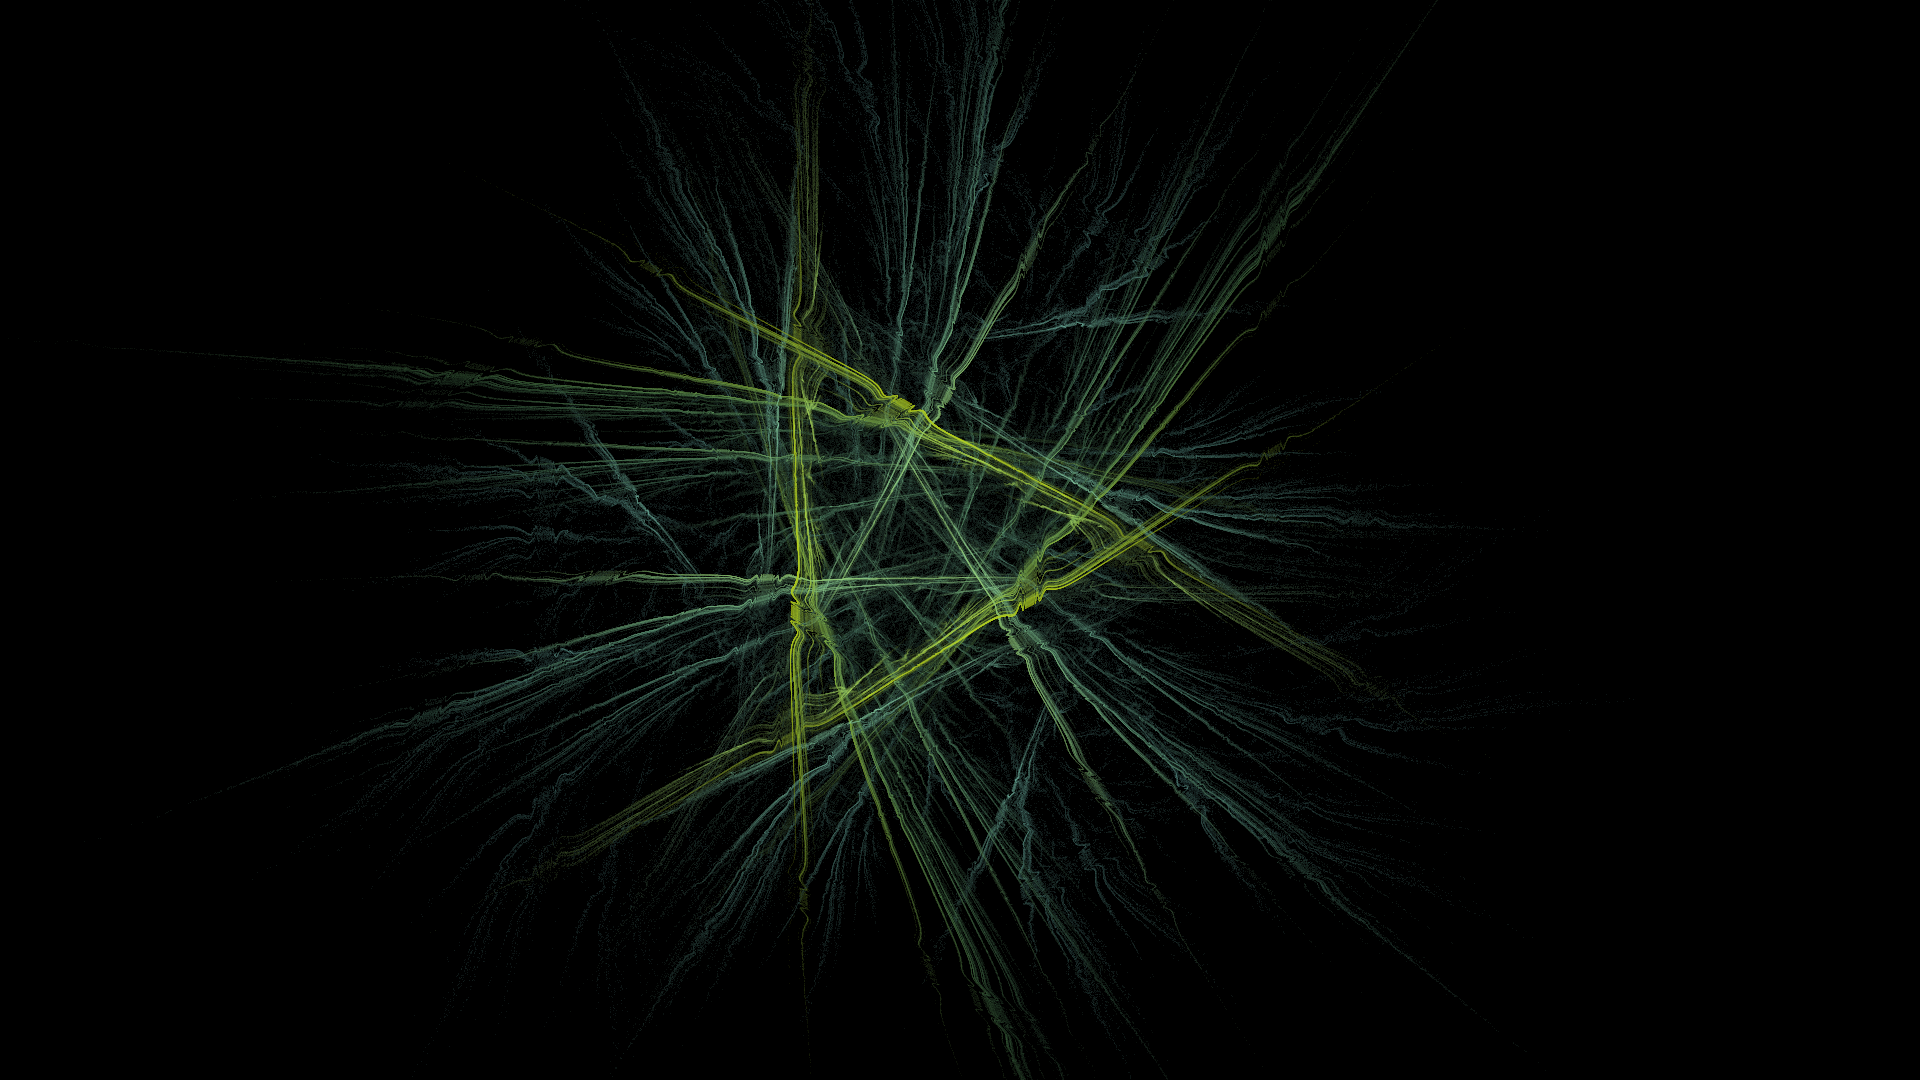
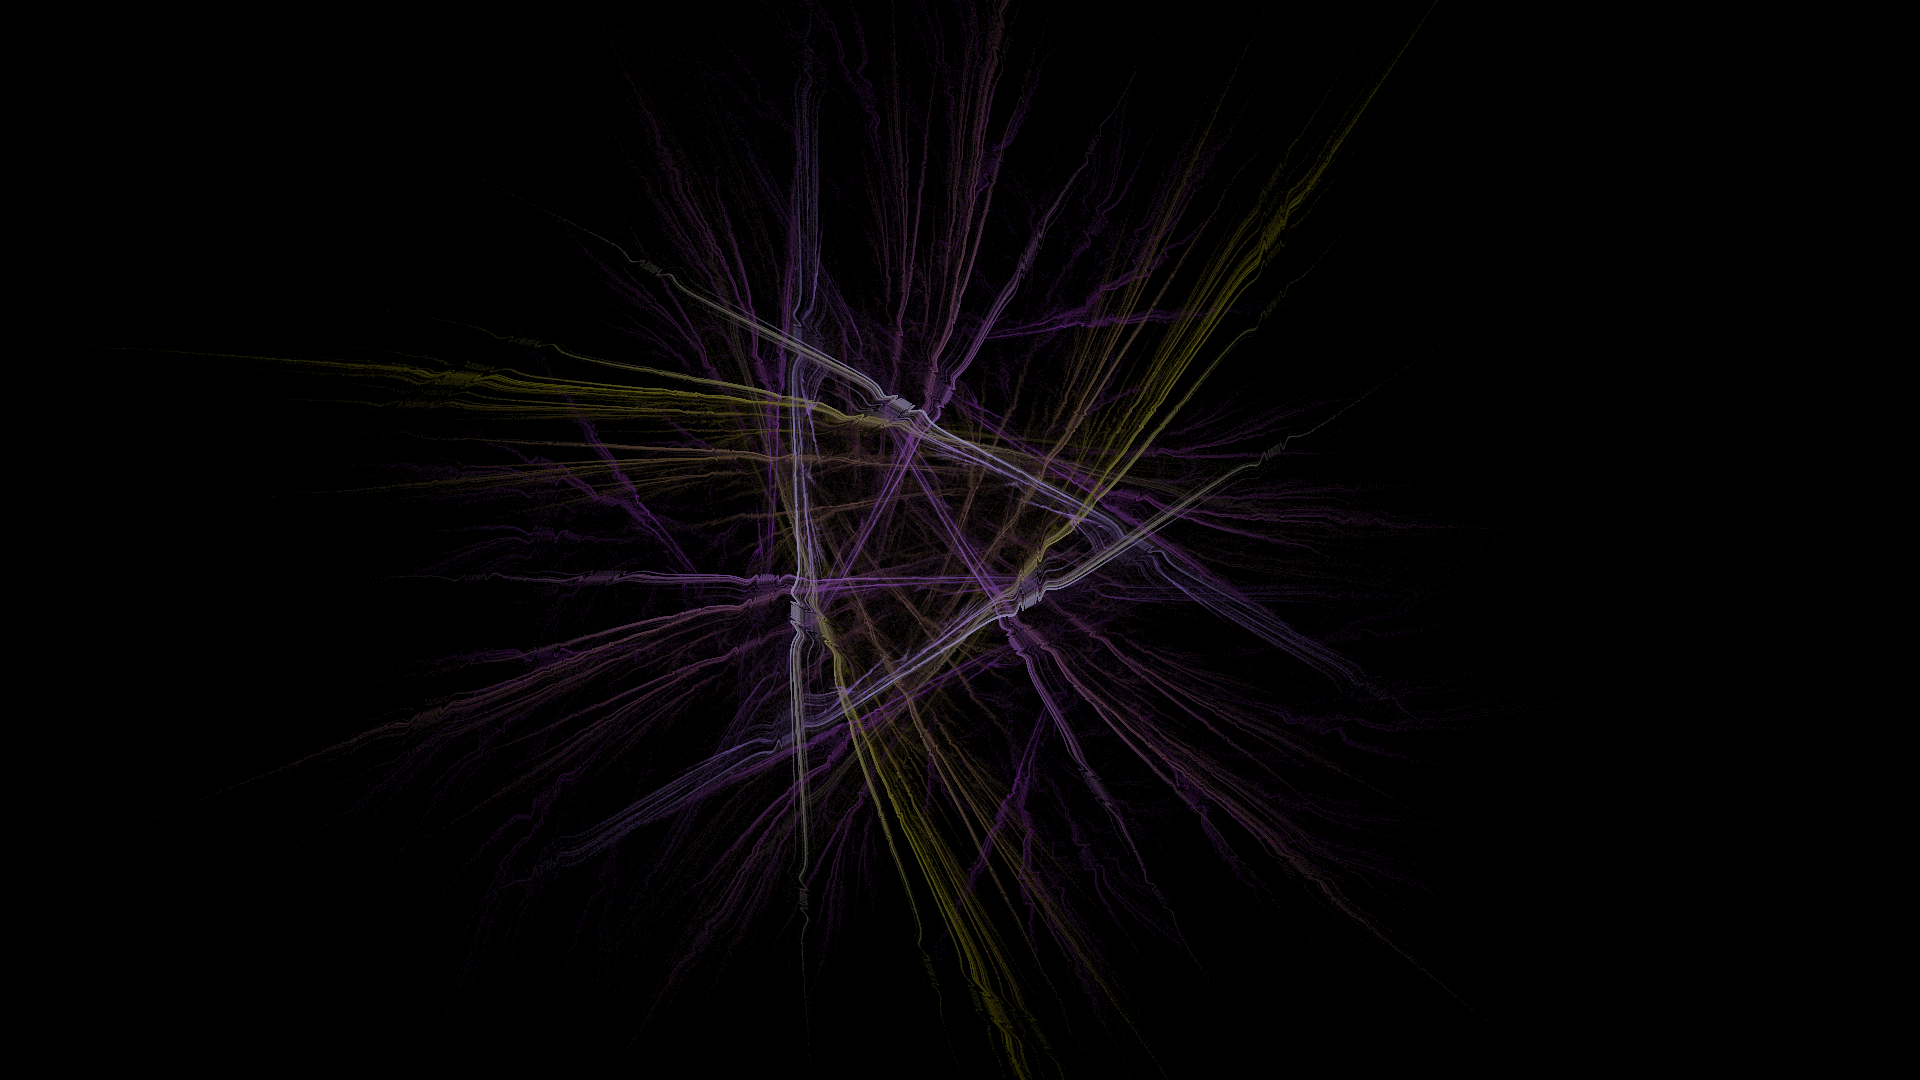
delete .keep compile to test, delete random color

Changed region(s): [[0.2188, 0.0306, 0.6875, 0.8861], [0.2812, 0.6722, 0.3125, 0.7028]]

diff --git a/internal/application/start.go b/internal/application/start.go
@@ -22,9 +22,8 @@ func (c *Conversion) Start(opts flag_parse.Opts, fs afero.Fs, logger *slog.Logge
 		opts.Symmetry = 1
 	}
 
-	colorRnd := rand.New(rand.NewSource(time.Now().Unix()))
 	baseSeed := int64(opts.Seed)
-
+	boundsRnd := rand.New(rand.NewSource(baseSeed))
 	if opts.Randomize || len(opts.AffineParams) == 0 || len(opts.Functions) == 0 {
 		RandomizeAffineParamsWithOptions(&opts, rand.New(rand.NewSource(time.Now().UnixNano())), RandomizeOptions{
 			Count:    2,
@@ -34,9 +33,9 @@ func (c *Conversion) Start(opts flag_parse.Opts, fs afero.Fs, logger *slog.Logge
 
 	for i, a := range opts.AffineParams {
 		if a.ColorR == 0 && a.ColorG == 0 && a.ColorB == 0 {
-			a.ColorR = colorRnd.Float64()
-			a.ColorG = colorRnd.Float64()
-			a.ColorB = colorRnd.Float64()
+			a.ColorR = boundsRnd.Float64()
+			a.ColorG = boundsRnd.Float64()
+			a.ColorB = boundsRnd.Float64()
 		}
 
 		affRepo.AddAffine(a)
@@ -50,7 +49,7 @@ func (c *Conversion) Start(opts flag_parse.Opts, fs afero.Fs, logger *slog.Logge
 	}
 
 	boundsAcc := infrastructure.NewBoundsAccumulator()
-	boundsRnd := rand.New(rand.NewSource(baseSeed))
+
 	boundsConv := NewConversion(affRepo, trRepo, boundsRnd, boundsAcc)
 	boundsConv.logger = logger
 	boundsConv.worker = "bounds"